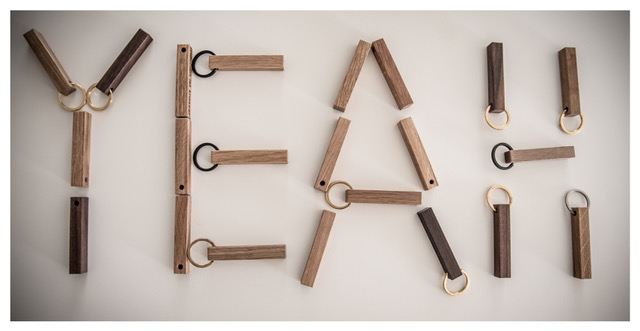
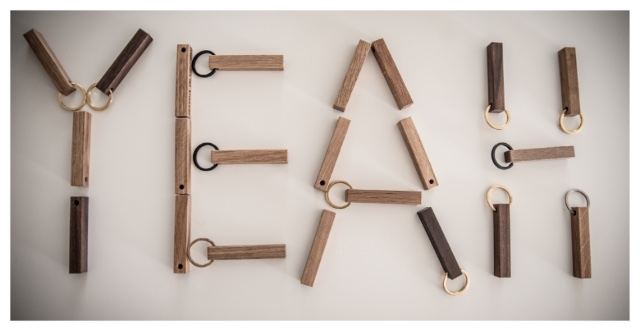
Add new yeah img

diff --git a/src/pages/Thanks.jsx b/src/pages/Thanks.jsx
@@ -5,7 +5,14 @@ export default () => (
   <Fragment>
     <Header>Danke für Ihre Bestellung</Header>
     <div class="center">
-      <img class="small" src="/konfigurator/img/yeah.jpg" alt="Yeah!" />
+      <img
+        class="small"
+        src="/konfigurator/img/yeah.jpg"
+        srcset="/konfigurator/img/yeah.jpg 1x,
+        /konfigurator/img/yeah@2x.jpg 2x"
+        width="640"
+        alt="Yeah!"
+      />
       <p>
         Wir freuen uns, dass wir Ihren Wunschanhänger für Sie fertigen dürfen.
       </p>
